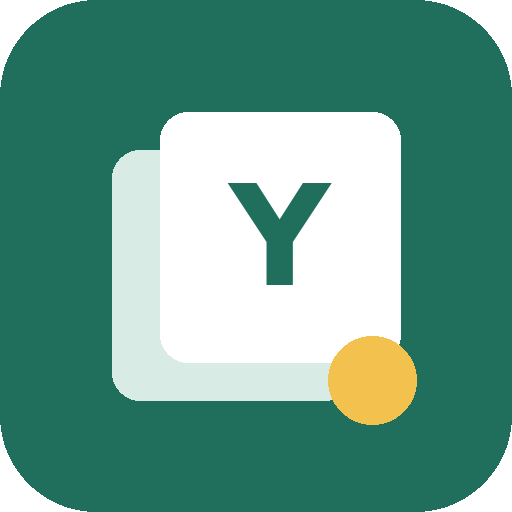
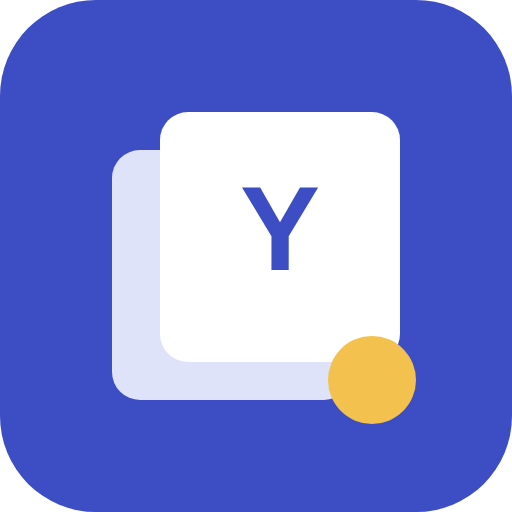
Tasarım v31: dokunmayı engellemeyen 3B kart çevirme, geri bildirim başlığı, tutarlı kenarlıklar, çivit simge, hedef satırı düzeltmesi
Claude-Session: https://claude.ai/code/session_01Ryb67Uo6j9cBGdpeW9H2ET

diff --git a/css/app.css b/css/app.css
@@ -128,7 +128,7 @@ b, strong { font-weight: 650; }
 .sync-dot.syncing, .sync-dot.pending { background: var(--mid-solid); }
 
 .view { max-width: 680px; margin: 0 auto; padding: var(--s3) var(--s4) calc(var(--tab-h) + 24px + env(safe-area-inset-bottom)); }
-.tabs { position: fixed; bottom: 0; left: 0; right: 0; z-index: 20; display: flex; height: calc(var(--tab-h) + env(safe-area-inset-bottom));
+.tabs { position: fixed; bottom: 0; left: 0; right: 0; z-index: 31; display: flex; height: calc(var(--tab-h) + env(safe-area-inset-bottom));
   padding: 0 var(--s2) env(safe-area-inset-bottom); background: color-mix(in srgb, var(--surface) 88%, transparent); border-top: 1px solid var(--line);
   -webkit-backdrop-filter: saturate(1.6) blur(16px); backdrop-filter: saturate(1.6) blur(16px); }
 .tabs a { flex: 1; display: flex; flex-direction: column; align-items: center; justify-content: center; gap: 2px; z-index: 1;
@@ -251,9 +251,9 @@ button.chip:active { transform: scale(.96); }
 .hero.today-head > :first-child .small { color: var(--muted); font-weight: 550; margin-top: 4px; }
 .hero.today-head .hero-r > :first-child { font-size: var(--fs-base); font-weight: 650; }
 .hero.today-head .hero-r .small.muted:not(.joker) { font-weight: 450; display: -webkit-box; -webkit-line-clamp: 2; -webkit-box-orient: vertical; overflow: hidden; }
-.hero.today-head .goalline { grid-column: 1 / -1; margin: var(--s3) calc(-1 * var(--s4)) 0; padding: 12px var(--s4); border: 0; border-top: 1px solid var(--line); border-radius: 0 0 var(--r) var(--r); background: none; display: flex; align-items: center; gap: 4px; min-height: 48px; color: var(--muted); }
+.hero.today-head .goalline { grid-column: 1 / -1; margin: var(--s3) calc(-1 * var(--s4)) 0; padding: 12px var(--s4); border: 0; border-top: 1px solid var(--line); border-radius: 0 0 var(--r) var(--r); background: none; display: block; position: relative; padding-right: 40px; min-height: 48px; line-height: 1.45; color: var(--muted); }
 .hero.today-head .goalline b { color: var(--text); }
-.hero.today-head .goalline::after { content: ''; margin-left: auto; flex: 0 0 auto; width: 7px; height: 7px; border: solid var(--muted); border-width: 0 2px 2px 0; transform: rotate(-45deg); opacity: .6; }
+.hero.today-head .goalline::after { content: ''; position: absolute; right: 20px; top: 50%; margin-top: -4px; width: 7px; height: 7px; border: solid var(--muted); border-width: 0 2px 2px 0; transform: rotate(-45deg); opacity: .6; }
 
 /* Görev listesi: tek grup yüzeyi, satırlar ayraçlı */
 .tasks { list-style: none; padding: 0; margin: 0 0 var(--s3); background: var(--surface); border: 1px solid var(--line); border-radius: var(--r); box-shadow: var(--shadow-1); overflow: hidden; }
@@ -1242,7 +1242,6 @@ details.set-adv > summary b { font-weight: 650; }
 @keyframes sheet-in { from { transform: translateY(100%); } }
 @keyframes panel-up { from { opacity: 0; transform: translateY(24px); } }
 @keyframes card-next { from { opacity: 0; transform: translateX(16px); } }
-@keyframes flip-half { from { transform: perspective(1000px) rotateY(-90deg); } }
 @keyframes bar-grow { from { transform: scaleX(0); } }
 @keyframes item-in { from { opacity: 0; transform: translateY(6px); } }
 
@@ -1267,16 +1266,14 @@ html[data-nav=back]::view-transition-old(root) { animation-name: vt-out-back; }
 /* View Transitions yoksa: kısa giriş */
 .page.enter { animation: rise-in var(--t) var(--ease-out); }
 
-/* Kart çevirme: gerçek 3B (View Transitions) — eski yüz 0→90°, yeni yüz -90°→0° */
-html[data-vt=flip]::view-transition-old(root), html[data-vt=flip]::view-transition-new(root) { animation: none; }
-html[data-vt=flip]::view-transition-group(flipcard) { animation-duration: 300ms; animation-timing-function: var(--ease-io); }
-html[data-vt=flip]::view-transition-image-pair(flipcard) { perspective: 1000px; }
-html[data-vt=flip]::view-transition-old(flipcard) { animation: flip-out 150ms cubic-bezier(.55, 0, 1, .45) both; backface-visibility: hidden; }
-html[data-vt=flip]::view-transition-new(flipcard) { animation: flip-in 150ms cubic-bezier(0, .55, .45, 1) 150ms both; backface-visibility: hidden; }
-@keyframes flip-out { to { transform: rotateY(90deg); } }
-@keyframes flip-in { from { transform: rotateY(-90deg); } }
-/* Yedek (View Transitions yok): yeni yüz yarım dönüşle gelir */
-.flip-in { animation: flip-half var(--t-slow) var(--ease-out); }
+/* Geçiş sırasında dokunuşlar gerçek öğelere gitsin */
+::view-transition { pointer-events: none; }
+
+/* Kart çevirme (js/util.js flip): 0→90°, yüz değişir, -90°→0° — toplam 300 ms */
+.flip-out { animation: flip-out 150ms cubic-bezier(.55, 0, 1, .45) both !important; }
+.flip-in { animation: flip-in 150ms cubic-bezier(0, .55, .45, 1) both !important; }
+@keyframes flip-out { to { transform: perspective(1000px) rotateY(90deg); } }
+@keyframes flip-in { from { transform: perspective(1000px) rotateY(-90deg); } }
 
 /* Yeni kart sağdan gelir */
 .flashcard, .scan-card, .nf-card { animation: card-next var(--t) var(--ease-out); }

diff --git a/js/util.js b/js/util.js
@@ -80,21 +80,24 @@ export function seeded(str) {
   return () => { h ^= h << 13; h ^= h >>> 17; h ^= h << 5; return ((h >>> 0) % 100000) / 100000; };
 }
 
-// Kart çevirme: DOM değişikliği (fn) hemen yapılır; görsel olarak kart Y ekseninde döner.
-// View Transitions varsa eski yüz 0→90°, yeni yüz -90°→0° (gerçek 3B çevirme); yoksa yeni yüz yarım dönüşle gelir.
-// Hareket azaltma açıksa yalnız değişiklik.
+// Kart çevirme (gerçek 3B): kart 0→90° döner, kenardan görünmezken yüz değişir (fn), sonra -90°→0° gelir.
+// Toplam 300 ms; kart hep dokunulabilir. Hareket azaltma açıksa yalnız değişiklik.
 export function flip(el, fn) {
-  const de = document.documentElement;
-  if (!el || matchMedia('(prefers-reduced-motion: reduce)').matches) return fn();
-  if (!document.startViewTransition || de.dataset.nav || de.dataset.vt) {
-    fn(); el.classList.remove('flip-in'); void el.offsetWidth; el.classList.add('flip-in');
-    return;
-  }
-  el.style.viewTransitionName = 'flipcard'; de.dataset.vt = 'flip';
-  const done = () => { el.style.viewTransitionName = ''; delete de.dataset.vt; };
-  const vt = document.startViewTransition(fn);
-  vt.ready.catch(() => {}); vt.updateCallbackDone.catch(() => {});
-  vt.finished.catch(() => {}).then(done);
+  if (!el || !el.isConnected || matchMedia('(prefers-reduced-motion: reduce)').matches) return fn();
+  // Animasyon sonu olayıyla ilerler (sekme arka plandaysa ya da olay gelmezse yedek zamanlayıcı)
+  const after = (name, ms, cb) => {
+    let done = false;
+    const go = () => { if (done) return; done = true; el.removeEventListener('animationend', on); cb(); };
+    const on = e => { if (e.target === el && e.animationName === name) go(); };
+    el.addEventListener('animationend', on); setTimeout(go, ms);
+  };
+  el.classList.remove('flip-in'); el.classList.add('flip-out');
+  after('flip-out', 700, () => {
+    el.classList.remove('flip-out');
+    fn();
+    el.classList.add('flip-in');
+    after('flip-in', 700, () => el.classList.remove('flip-in'));
+  });
 }
 
 // opts.bottom: ekranın altında (başlığı kapatmasın; ör. deneme sonucu)
